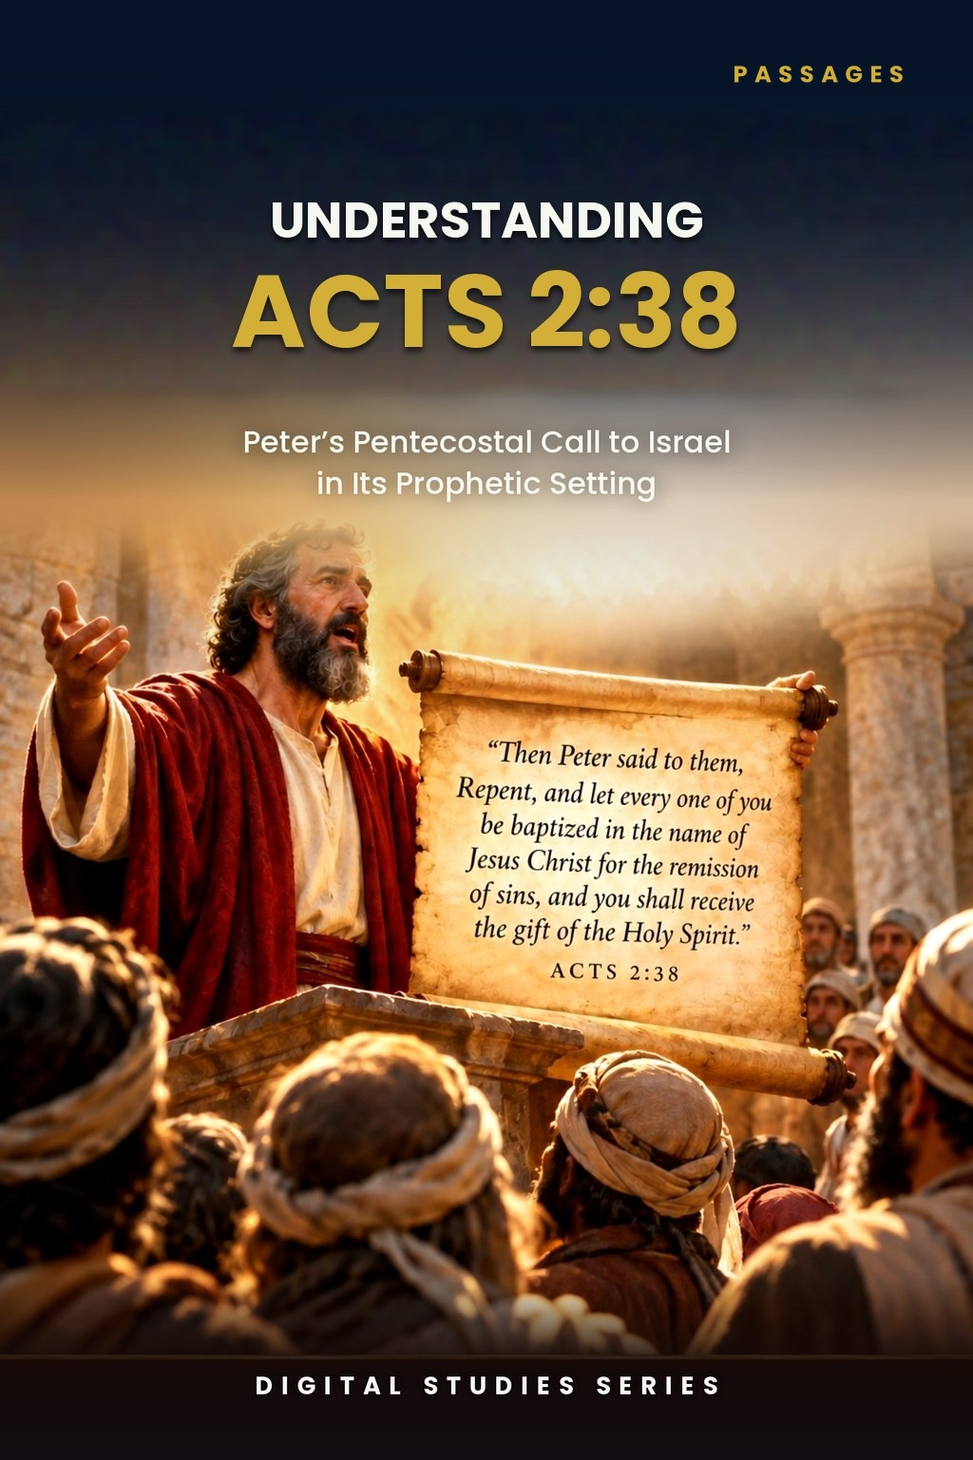
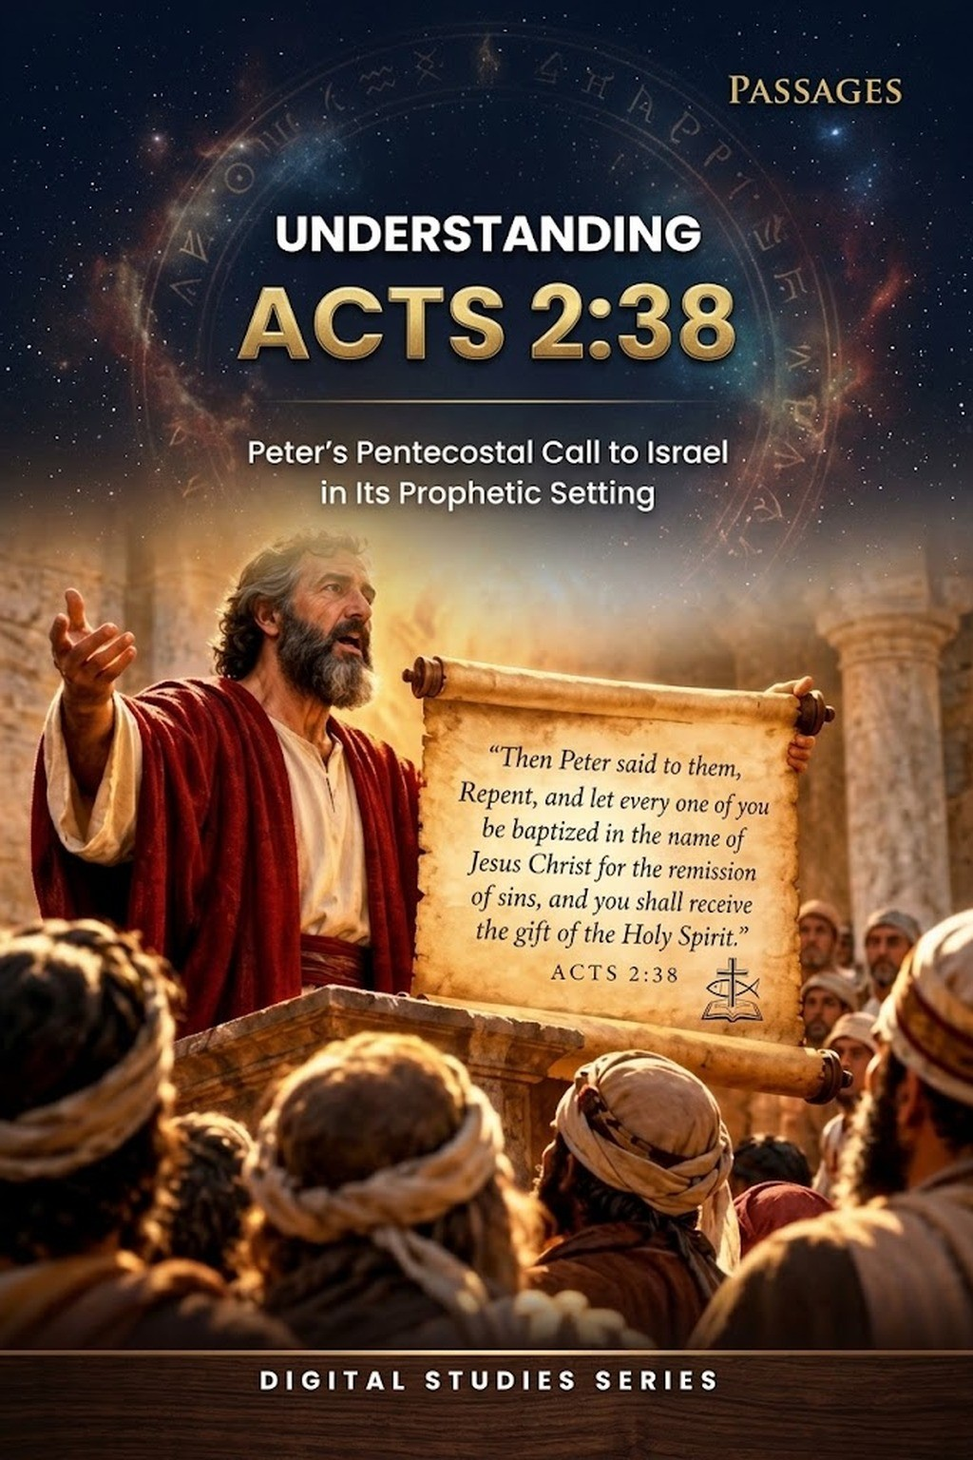
Study 20: Roboto rebuild, approved PAM additions, new PASSAGES cover (jpg+webp), three previews, 16 pages; tracker v1.49
Claude-Session: https://claude.ai/code/session_01TLNFW47XCW6YAMUxScR3v4

diff --git a/study-20-understanding-acts-2-38.html b/study-20-understanding-acts-2-38.html
@@ -14,7 +14,7 @@
   <body class="study-detail-page">
     <header class="site-header"><div class="wrap nav"><a class="logo" href="index.html" aria-label="Zay-Marie Press home"><img src="assets/zay-marie-press-logo-hq.png" alt="Zay-Marie Press" width="420" height="238" /></a><button class="menu-toggle" type="button" aria-expanded="false" aria-controls="primary-nav">MENU</button><nav aria-label="Primary navigation" class="primary-nav" id="primary-nav"><a href="index.html">HOME</a><a href="books.html">BOOKS</a><a href="series.html">SERIES</a><a class="active" aria-current="page" href="digital-studies.html">DIGITAL STUDIES</a><a href="biblical-hermeneutics-course.html">COURSE</a><a href="about.html">ABOUT</a><a href="resources.html">RESOURCES</a><a href="contact.html">CONTACT</a></nav></div></header>
     <main>
-      <section class="detail-hero"><div class="wrap detail-hero-grid"><div class="detail-cover"><img src="assets/study-20-cover.jpg" alt="Understanding Acts 2:38 - Study 20 cover" /></div><div><div class="eyebrow">STUDY 20 · DIGITAL STUDY</div><h1>Understanding Acts 2:38</h1><p class="detail-subtitle">Peter’s Pentecostal Call to Israel in Its Prophetic Setting</p><p class="detail-kicker">A Biblical Study of Peter’s Commands, Pentecost, and the Acts Overlap</p><p class="detail-copy">Acts 2:38 must be read inside Peter’s Pentecostal sermon to Israel. Peter speaks from Joel, David, Israel’s Messiah, and the nation’s responsibility for rejecting Him before he gives his command to repent and be baptized.</p><p class="detail-copy">This study follows Peter’s words in their own setting, then compares his commanded water baptism with the Body’s Spirit incorporation revealed through Paul—without weakening Peter’s message or collapsing distinct apostolic commissions.</p><div class="detail-buyline"><span class="detail-price">$5.99</span><span class="detail-format">Digital PDF · 13 Pages</span><span class="detail-button pending" aria-disabled="true">Checkout Coming Soon</span></div></div></div></section>
+      <section class="detail-hero"><div class="wrap detail-hero-grid"><div class="detail-cover"><picture><source srcset="assets/study-20-cover.webp" type="image/webp"><img src="assets/study-20-cover.jpg" alt="Understanding Acts 2:38 - Study 20 cover" /></picture></div><div><div class="eyebrow">STUDY 20 · DIGITAL STUDY</div><h1>Understanding Acts 2:38</h1><p class="detail-subtitle">Peter’s Pentecostal Call to Israel in Its Prophetic Setting</p><p class="detail-kicker">A Biblical Study of Peter’s Commands, Pentecost, and the Acts Overlap</p><p class="detail-copy">Acts 2:38 must be read inside Peter’s Pentecostal sermon to Israel. Peter speaks from Joel, David, Israel’s Messiah, and the nation’s responsibility for rejecting Him before he gives his command to repent and be baptized.</p><p class="detail-copy">This study follows Peter’s words in their own setting, then compares his commanded water baptism with the Body’s Spirit incorporation revealed through Paul—without weakening Peter’s message or collapsing distinct apostolic commissions.</p><div class="detail-buyline"><span class="detail-price">$5.99</span><span class="detail-format">Digital PDF · 16 Pages</span><span class="detail-button pending" aria-disabled="true">Checkout Coming Soon</span></div></div></div></section>
       <section class="detail-section"><div class="wrap"><div class="eyebrow">ABOUT THIS STUDY</div><h2>What Did Peter Mean at Pentecost?</h2><p class="lead">Acts 2:38 is not a detached salvation formula but Peter’s direct answer to Israelites who have just heard his prophetic explanation of Pentecost, his announcement of the risen Messiah, and his indictment of Israel’s rejection of Him.</p><p class="lead">This study preserves the force of Peter’s commands while identifying their audience, their prophetic source, their promised outcome, and the apostolic authority behind them. Acts 3:19–21 confirms that Peter’s call to repentance remains within Israel’s ongoing prophetic and Kingdom setting.</p><p class="lead">This is not a study of the Kingdom message Peter’s hearers had already heard, which Study 2 defines on its own terms, nor of the apostles’ later renewed Spirit filling in Acts 4, which Study 34 distinguishes from Pentecost, nor of the general test for whether an Acts narrative obligates the Body today, which Study 38 supplies. Its task is narrower: to read Peter’s actual commands in Acts 2:38 within their own audience and prophetic setting, and to show what he promised, to whom, and on what ground.</p><div class="study-distinction"><h3>How These Studies Relate</h3><p>Study 20 reads Peter’s commands and the promised Spirit in Acts 2:38 as part of his Pentecost appeal to Israel.</p><p><a href="study-02-the-gospel-of-the-kingdom.html">Study 2 — The Gospel of the Kingdom</a> Recover the promised Kingdom and its audience before interpreting Peter’s response; this makes clear why his hearers ask their question in Acts 2:37.</p><p><a href="study-34-filled-again.html">Study 34 — Filled Again</a> Distinguish the Spirit promised at Pentecost from the apostles’ later renewed filling in Acts 4, so different Spirit-related events are not treated as identical.</p><p><a href="study-38-why-acts-is-not-a-universal-experience-manual.html">Study 38 — Why Acts Is Not a Universal Experience Manual</a> Use the wider test for whether an event narrated in Acts establishes a present obligation for the Body.</p><p class="connection-guide-link"><a href="study-connections.html#study-20">Explore the full connection guide for Study 20 →</a></p></div></div></section>
       <section class="detail-section soft"><div class="wrap"><div class="eyebrow">WHAT YOU’LL STUDY</div><h2>Read Peter’s Answer in Its Own Setting</h2><div class="study-points">
         <div class="study-point"><h3>Pentecost and Prophecy</h3><p>See how Joel, David, the outpoured Spirit, and Israel’s Messiah establish the prophetic setting of Acts 2.</p></div>
@@ -36,10 +36,9 @@
       </div></div></section>
       <section class="detail-section"><div class="wrap"><div class="eyebrow">FROM THE STUDY</div><h2>Context Before Formula</h2><div class="excerpt"><blockquote>“Acts 2:38 is an apostolic answer to a specific audience after a specific prophetic sermon.”</blockquote><p>Peter’s words retain their force when they are read within the audience, promise, commission, and prophetic setting that Acts itself supplies. Comparison with Pauline teaching comes after that interpretation.</p></div></div></section>
       <section class="detail-section soft"><div class="wrap"><div class="eyebrow">A LOOK INSIDE</div><h2>Preview the Study Before You Purchase</h2><p class="preview-instruction">Click any page to enlarge it for reading.</p><div class="preview-grid">
-        <div class="preview-card"><a class="preview-image-link" data-preview-lightbox href="assets/study-20-page-2.jpg"><img src="assets/study-20-page-2.jpg" alt="Study 20 interior preview — page 2, table of contents"/></a><div class="page-no">Page 2</div><h3>Table of Contents</h3><p>See the full structure of the study, from the introduction through the final synthesis.</p></div><div class="preview-card"><a class="preview-image-link" data-preview-lightbox href="assets/study-20-page-3.jpg"><img src="assets/study-20-page-3.jpg" alt="Study 20 interior preview — page 3, What You Will Learn in This Study" /></a><div class="page-no">Page 3</div><h3>What You Will Learn in This Study</h3><p>Begin with the governing context, controls, and distinctions that guide the study of Acts 2:38.</p></div><div class="preview-card"><a class="preview-image-link" data-preview-lightbox href="assets/study-20-page-5.jpg"><img src="assets/study-20-page-5.jpg" alt="Study 20 interior preview — page 5, Pentecost and Peter’s audience" /></a><div class="page-no">Page 5</div><h3>Pentecost and Peter’s Audience</h3><p>Trace the prophetic setting, Israelite audience, and concrete response Peter commands.</p></div>
-      </div></div></section>
+        <div class="preview-card"><a class="preview-image-link" data-preview-lightbox href="assets/study-20-page-2.jpg"><img src="assets/study-20-page-2.jpg" alt="Study 20 interior preview — page 2, table of contents"/></a><div class="page-no">Page 2</div><h3>Table of Contents</h3><p>See the full structure of the study, from the introduction through the final synthesis.</p></div><div class="preview-card"><a class="preview-image-link" data-preview-lightbox href="assets/study-20-page-3.jpg"><img src="assets/study-20-page-3.jpg" alt="Study 20 interior preview — page 3, What You Will Learn in This Study" /></a><div class="page-no">Page 3</div><h3>What You Will Learn in This Study</h3><p>Begin with the governing context, controls, and distinctions that guide the study of Acts 2:38.</p></div><div class="preview-card"><a class="preview-image-link" data-preview-lightbox href="assets/study-20-page-4.jpg"><img src="assets/study-20-page-4.jpg" alt="Study 20 interior preview — page 4, Introduction: Let Acts 2 Speak First" /></a><div class="page-no">Page 4</div><h3>Introduction: Let Acts 2 Speak First</h3><p>Begin with the question the study asks first and the setting it examines before any comparison is made.</p></div></section>
       <section class="detail-section"><div class="wrap"><div class="eyebrow">WHAT’S INCLUDED</div><h2>A Focused Study Built for<br />Understanding and Teaching</h2><div class="includes-grid">
-        <div class="include-item"><h3>13-Page Biblical Study</h3><p>A focused study of Peter’s Pentecostal answer and its prophetic setting.</p></div>
+        <div class="include-item"><h3>16-Page Biblical Study</h3><p>A focused study of Peter’s Pentecostal answer and its prophetic setting.</p></div>
         <div class="include-item"><h3>Eleven Teaching Sections</h3><p>Follow Acts 2:38 from Pentecost through Peter’s commands and Pauline comparison.</p></div>
         <div class="include-item"><h3>Acts 3 Comparison</h3><p>Read Peter’s companion call to repentance, refreshing, and prophetic restoration.</p></div>
         <div class="include-item"><h3>Water and Spirit Table</h3><p>Compare Peter’s administered water baptism with Spirit incorporation into one Body.</p></div>
@@ -48,7 +47,7 @@
         <div class="include-item"><h3>Scripture-Tracing Exercise</h3><p>Classify passages by speaker, audience, command or promise, and programmatic marker.</p></div>
         <div class="include-item"><h3>Teaching and Discussion Tools</h3><p>Use the review questions, teaching outline, and guided further study for personal or group use.</p></div>
       </div></div></section>
-      <section class="detail-section cream"><div class="wrap"><div class="final-buy"><div><div class="eyebrow">STUDY 20 · DIGITAL STUDY</div><h2>Understanding Acts 2:38</h2><p>13-page digital PDF · For personal use</p></div><div class="final-offer"><div class="detail-price">$5.99</div><span class="detail-button pending" aria-disabled="true">Checkout Coming Soon</span></div></div><a class="back-link" href="digital-studies.html">← Back to All Digital Studies</a></div></section>
+      <section class="detail-section cream"><div class="wrap"><div class="final-buy"><div><div class="eyebrow">STUDY 20 · DIGITAL STUDY</div><h2>Understanding Acts 2:38</h2><p>16-page digital PDF · For personal use</p></div><div class="final-offer"><div class="detail-price">$5.99</div><span class="detail-button pending" aria-disabled="true">Checkout Coming Soon</span></div></div><a class="back-link" href="digital-studies.html">← Back to All Digital Studies</a></div></section>
     <section class="study-method-course-bridge"><div class="wrap"><div class="study-method-course-panel"><div><div class="eyebrow">BUILD THE INTERPRETIVE METHOD</div><h2>Want More Than a Focused Study?</h2><p>Digital Studies examine particular biblical subjects and difficult passages. The 40-lesson Biblical Hermeneutics course teaches a complete, repeatable method for establishing meaning in context, determining proper assignment, and making responsible application.</p></div><a class="btn btn-primary" href="biblical-hermeneutics-course.html">BIBLICAL HERMENEUTICS COURSE</a></div></div></section></main><footer class="site-footer"><div class="wrap footer-grid"><div class="footer-about"><h3>Zay-Marie Press</h3><p class="footer-tagline"><em>Where the Bible Means What It Says.</em></p><p>Zay-Marie Press is a Christian theological publisher dedicated to producing doctrinally precise, carefully structured biblical resources that equip pastors, teachers, and serious students with clarity, depth, and Scripture-anchored truth.</p><p><a href="https://zaymariepress.com">zaymariepress.com</a><br/><a href="mailto:info@zaymariepress.com">info@zaymariepress.com</a></p></div><div class="footer-column"><h3>Explore</h3><div class="footer-links-stacked"><a href="books.html">Books</a><br/><a href="series.html">Series</a><br/><a href="biblical-hermeneutics-course.html">Course</a><br/><a href="digital-studies.html">Digital Studies</a><br/><a href="resources.html">Resources</a><br/><a href="bible-book-summaries.html">Bible Book Summaries</a><br/><a href="doctrinal-packets.html">Doctrinal Packets</a><br/><a href="historical-drift.html">Historical Drift</a><br/><a href="about.html">About</a><br/><a href="contact.html">Contact</a></div></div><div class="footer-column"><h3>Reader Support</h3><div class="footer-links-stacked"><a href="reader-support.html#faq">FAQ</a><br/><a href="reader-support.html#shipping-returns">Shipping &amp; Returns</a><br/><a href="reader-support.html#digital-downloads">Digital Downloads</a><br/><a href="reader-support.html#contact-support">Contact Support</a></div></div><div class="footer-column"><h3>Acts Overlap</h3><p><strong>Acts Overlap Theology Series</strong></p><p><em>Two Distinct Streams. One Overlap.</em></p><p><a href="series.html">Series Overview</a></p></div></div><div class="wrap footer-bottom">© 2026 Zay-Marie Press. All rights reserved.</div></footer>
     <div class="preview-lightbox" id="preview-lightbox" role="dialog" aria-modal="true" aria-label="Expanded study preview"><button class="preview-lightbox-close" type="button" aria-label="Close preview">×</button><img id="preview-lightbox-image" alt="" /></div>
     <script>

diff --git a/site.js b/site.js
@@ -62,7 +62,7 @@ const resourceModal=document.querySelector('#resource-modal'), resourceModalTitl
 if(resourceModal&&resourceModalTriggers.length){const closeResourceModal=()=>{resourceModal.hidden=true;document.body.classList.remove('resource-modal-open');lastResourceTrigger?.focus();};resourceModalTriggers.forEach(trigger=>trigger.addEventListener('click',()=>{lastResourceTrigger=trigger;if(resourceModalTitle)resourceModalTitle.textContent=trigger.dataset.title||'Resource';if(resourceModalDescription)resourceModalDescription.textContent=trigger.dataset.description||'';if(resourceModalLink){resourceModalLink.href=trigger.dataset.href||'#';resourceModalLink.textContent=trigger.dataset.linkText||'OPEN RESOURCE';}resourceModal.hidden=false;document.body.classList.add('resource-modal-open');resourceModalClose?.focus();}));resourceModalClose?.addEventListener('click',closeResourceModal);resourceModal.addEventListener('click',e=>{if(e.target===resourceModal)closeResourceModal();});document.addEventListener('keydown',e=>{if(e.key==='Escape'&&!resourceModal.hidden)closeResourceModal();});}
 
 /* Display the verified final-PDF page count at the primary purchase decision point. */
-const digitalStudyPageCounts={1:14,2:14,3:18,4:18,5:16,6:16,7:16,8:16,9:16,10:23,11:15,12:14,13:18,14:15,15:16,16:16,17:18,18:18,19:16,20:13,21:14,22:15,23:15,24:13,25:13,26:17,27:15,28:14,29:13,30:17,31:17,32:14,33:15,34:16,35:15,36:15,37:15,38:16,39:16,40:15,41:15,42:15,43:17,44:15,45:15,46:15,47:16,48:15,49:14,50:14,51:15,52:15,53:15,54:15,55:16,56:16,61:16,62:16,63:16,64:16,65:16,66:16,67:16,68:16,69:16,70:16,71:16};
+const digitalStudyPageCounts={1:14,2:14,3:18,4:18,5:16,6:16,7:16,8:16,9:16,10:23,11:15,12:14,13:18,14:15,15:16,16:16,17:18,18:18,19:16,20:16,21:14,22:15,23:15,24:13,25:13,26:17,27:15,28:14,29:13,30:17,31:17,32:14,33:15,34:16,35:15,36:15,37:15,38:16,39:16,40:15,41:15,42:15,43:17,44:15,45:15,46:15,47:16,48:15,49:14,50:14,51:15,52:15,53:15,54:15,55:16,56:16,61:16,62:16,63:16,64:16,65:16,66:16,67:16,68:16,69:16,70:16,71:16};
 const digitalStudyMatch=window.location.pathname.match(/\/study-(\d+)-/i);
 const digitalStudyFormat=document.querySelector('.detail-hero .detail-format');
 if(digitalStudyMatch&&digitalStudyFormat){const studyNumber=Number(digitalStudyMatch[1]),pageCount=digitalStudyPageCounts[studyNumber];if(pageCount)digitalStudyFormat.textContent=`Digital PDF · ${pageCount} Pages`;}

diff --git a/controlling-documents/Digital_Studies_PAM_Audit_v1.49.md b/controlling-documents/Digital_Studies_PAM_Audit_v1.49.md
@@ -278,3 +278,4 @@ Study 15 PDF not yet supplied. Typography: none of Studies 2, 3, 6, 8 is in EB G
 - v1.46 (2026-10-01): Publisher live check of the catalog (built-in browser, phone-width pane): pill counts 7 / 17 / 14 / 13 / 20 and card order as pushed in 13d7748. Publisher ruling: a cover label must be an actual category name, so RIGHT DIVISION is not allowed (and PROPHECY alone and DOCTRINE are not exact either). Label inventory of all 71 covers; 43 re-lettered to the exact category name in each cover's own style (jpg, webp, png and size variants where they exist): FOUNDATIONS on 4, 18, 32, 36, 38, 39, 58; ISRAEL & PROPHECY on 2, 7, 9, 10, 12, 13, 17, 21, 23, 26, 27, 35, 40, 41, 61; DOCTRINAL THEMES on 1, 31, 33, 34, 42, 44, 45, 46, 49–52, 54–57 (Study 53 uses a two-line DOCTRINAL / THEMES because of its light beam); two-line heading form on 60, 68, 69 (DOCTRINAL TERMS / & THEMES) and 64 (ISRAEL, PROPHECY / & COVENANTS). Body of Christ and Passages covers were already correct. Category Standard v1.1 and Master Standard v1.32 updated (rule-sync). Not pushed pending approval.
 - v1.47 (2026-10-01): Catalog regression fixed and logged. After the v1.45/v1.46 pushes (13d7748, 3b86388) the publisher reported that the category pill buttons no longer worked. Cause: the re-sort script removed the Thematic Collections section and broke the catalog's inline scripts. Fix (29b411c, approved "i approve"): the catalog was rebuilt from the pre-re-sort page and only the study cards were moved; non-card content is identical to the earlier version. Checked locally before pushing: desktop pills 7 / 17 / 14 / 13 / 20 / 71 by clicking each, phone-width category select the same, 8 collection cards, no script errors. Checked live afterward (built-in browser pane, about 804 px wide, cache-busted): 8 collection cards present; category select returns 7 / 17 / 14 / 13 / 20 / 71. Not checked live: clicking the desktop pill buttons (hidden at that pane width); the publisher is asked to confirm on his phone. Lesson recorded: after any catalog edit, click every pill and count collections and script errors, not only card counts. No study files or rules changed.
 - v1.48 (2026-10-01): Study 19 (The Jerusalem Council) read in full against the PAM and Framework from the publisher's DOCX (CORRECTED, 12 pages): clear, no conflicts (Acts 15 kept in the Acts 9–28 Overlap and not assigned to one program, matching the Section 4 ruling; "recognition without absorption" matches the PAM's "recognition of two ministries operating in overlap"; the study never says the Body began at Acts 15). The publisher approved three PAM additions, inserted exactly as proposed: (1) Cornelius (Acts 10–11) stated as an event within Israel's Prophecy Program during the Overlap, not Pauline revelation and not the beginning of the Body (replaces the first sentence of the Peter's-testimony paragraph, Section 2); (2) Galatians 2:7–9, gospel of the uncircumcision and of the circumcision, "the text states the two commissions; the council does not merge them" (Section 9, after "It is recognition without absorption."); (3) "Nothing in Acts 15 applies the New Covenant to Gentiles. The council addresses what may be required of Gentile believers, not who the covenant parties are." (end of "The Importance of What Was Not Imposed", Section 6). The publisher ruled that the decree wording on the four restrictions (not automatically a shortened Mosaic Law) stays as written. Rebuilt in Roboto to Master Standard v1.30: 16 pages (cover plus 15 interior; the source text alone fills 14 interior pages in this format, so only one of five drafted KJV tables was kept: "Acts 15:16–17 Beside Amos 9:11–12"; the other four, Road to the Council, Peter Recalls Cornelius, the Letter in Acts 15:22–29 and Galatians 2:1–10 Beside Acts 15, are written and held back for length), margins 0.667 in. "What You Will Learn" bullets rewritten as process (five of eight stated conclusions; §17), Study Goal reworded ("explain, from the text itself, what the council recognized and what it resolved"), Interpretive Control moved to the Introduction, Study Outline redrafted as process-only bullets, seven callouts reduced to five boxed (Study Goal, Interpretive Control, Prophecy Remains Prophecy, Acts Overlap Principle, Final Doctrinal Principle; The Central Question and The Decree Is Not a Shortened Mosaic Covenant became bold run-in paragraphs), TOC first with page numbers, Teaching Outline and Guided Further Study split into bullets, running header removed, standard imprint (personal-use wording dropped), one spacer paragraph so a data table and a callout do not merge, Scripture-Tracing table allowed to break across pages. Word-by-word comparison against the source shows only the intended changes. Category: Passages (already ruled; one passage walked verse by verse), cover label PASSAGES. Cover: the publisher supplied a new image (1684 x 2528) which replaces the earlier art, trimmed 2 px and scaled to 1024 x 1536; JPG and a new WebP (page now uses a picture element with the JPG as fallback). Website: preview strip cut from four cards to three (Table of Contents p2, What You Will Learn p3, Introduction and the Controversy p4); old p5, p7 and p11 images removed; the six "What You'll Study" points rewritten as process (five stated conclusions; §17); page count 13 to 16 in site.js, the hero line, the What's Included card and the buy panel. Checked locally at 1280, 390, 360 and 320 px: no sideways overflow, all images load, 3 preview cards, 6 study points, no script errors. Publisher approved ("i approv") and pushed. Choice for the publisher to review: no page of this study is free of conclusions, so the third preview page is page 4 (the introduction and the controversy), the least conclusive. Next file needed: Study 20.
+- v1.49 (2026-10-01): Study 20 (Understanding Acts 2:38) read in full against the PAM and Framework from the publisher's PDF (13 pages; no DOCX): clear, no conflicts (Acts 2 as Prophecy/Kingdom setting with Joel 2, "Repent and be baptized" not Spirit baptism into the Body, Mystery from Acts 9 and not Pentecost per PAM Rule 4, Acts 9–28 overlap, Prophecy suspended at Acts 28). Silent points (Acts 3:19–21, remission of sins, "all that are afar off" in Acts 2:39) are reported as text only. The publisher approved the proposed additions: (1) Paul's water baptisms (Acts 16:15, 33; 18:8; 19:5; 1 Cor. 1:14–16) acknowledged at the end of the second paragraph of Section 10, from the Framework's water-baptism ruling (not denied; read within the Acts 9–28 concurrency; do not give Paul the Twelve's commission; do not make water baptism the Body's defining baptism); (2) "Kingdom entry" (PAM, Acts 2) added in Section 5; (3) the undefined "Seven Diagnostic Lenses" reworded to "seven lenses" with the seven listed. Rebuilt in Roboto to Master Standard v1.30: 16 pages (cover plus 15 interior; source was 12 interior); one KJV table added, "Joel 2:28–32 Beside Acts 2:16–21" (a second, "The Sermon in Order" for Acts 2:14–37, written and held back for length). Introduction starts on its own page; the Peter art kept on page 4. "What You Will Learn" rewritten as eight process bullets (six stated conclusions; §17), Study Goal reworded, Study Outline redrafted as process-only bullets, seven callouts reduced to five boxed (Study Goal, Interpretive Control, Do Not Weaken Peter's Words, Acts Overlap Principle, Final Study Control; Context Before Formula and Audience Control became bold run-ins), Roman-numeral Teaching Outline converted to bold group heads with bullets, TOC first with page numbers, standard imprint added, headings use the em dash. Category: Passages (already ruled), cover label PASSAGES. Cover: publisher-supplied image (686 x 1024) trimmed 3 px to 2:3 and scaled to 1024 x 1536; JPG and a new WebP (page now uses a picture element with the JPG fallback). Website: previews now Table of Contents p2, What You Will Learn p3, Introduction p4 (old p5 removed); page count 13 to 16 in site.js, hero line, What's Included card and buy panel text; the six "What You'll Study" points were left as audited in v1.1. Publisher approved ("i approve"); pushed.
